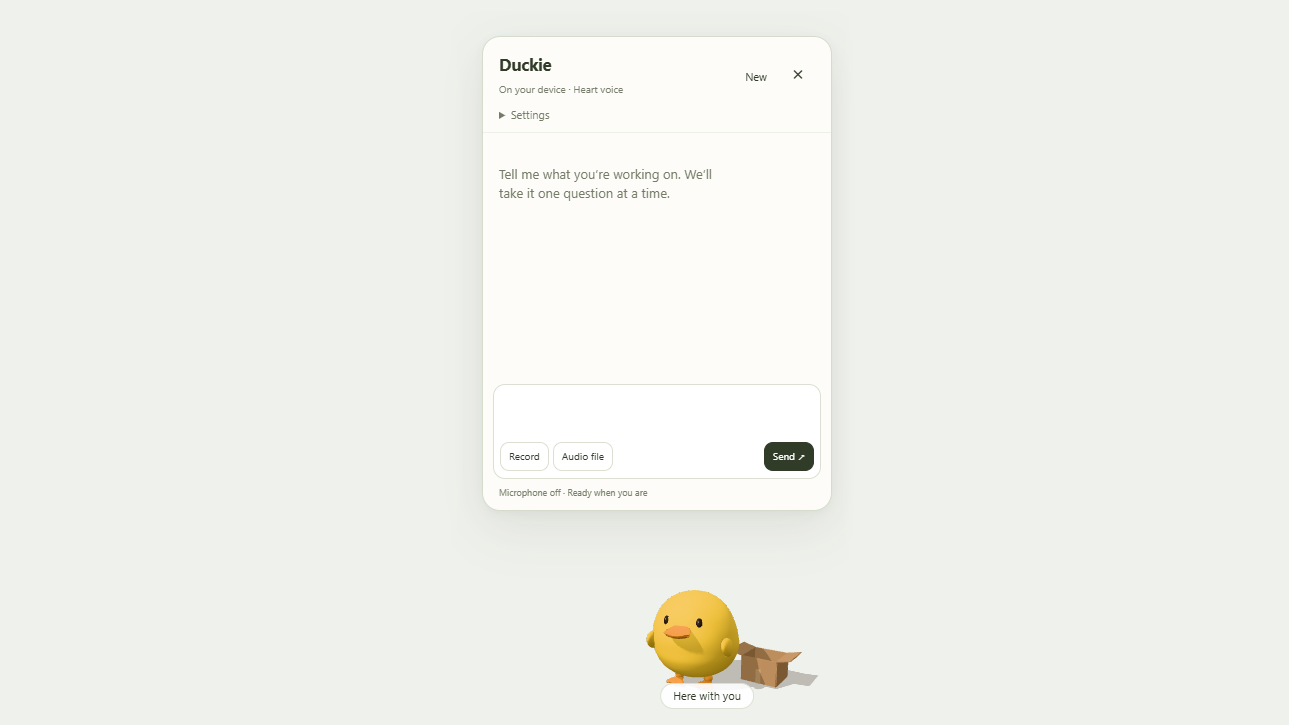
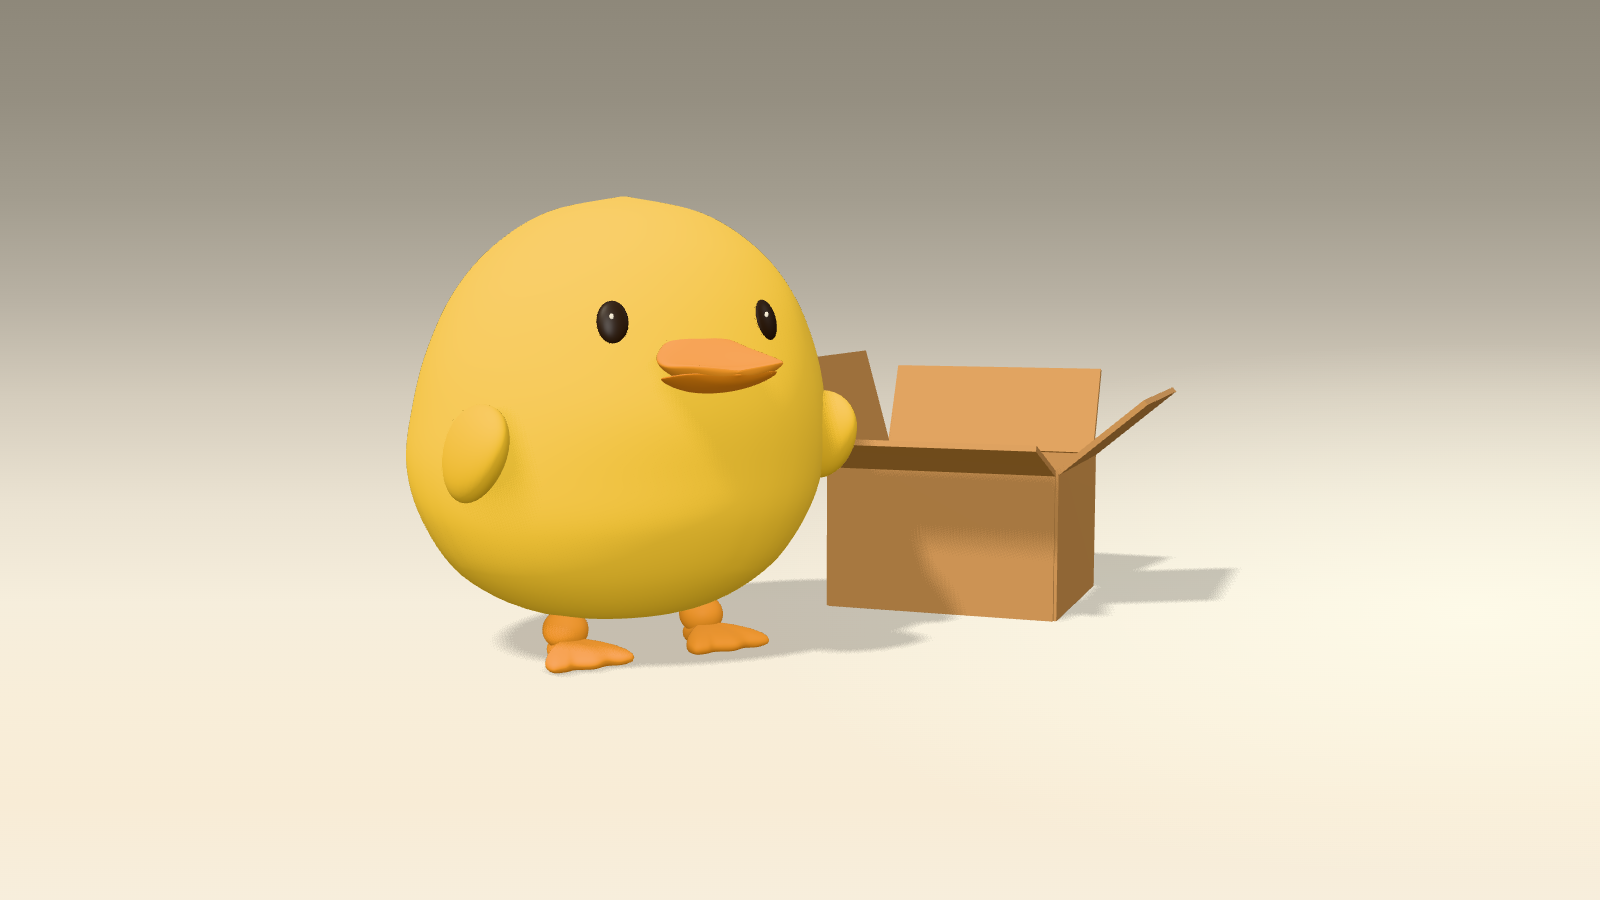
Publish Rubber Duckie project page and why post
- Flip both to draft: false.
- Rewrite both in my voice; note-6 adds where the rubber duck idea came
  from and why she isn't a coding agent or a screen watcher.
- New cover: the 3D Duckie model beside her open box, on the same
  warm-gray background as the Duckie cover.
- Add a RubberDuckieParts diagram (plain HTML/CSS, no JS) showing the
  gateway I wrote and the swappable ears, brain and voice it plugs into.
  Used on the project page and in note-6.
- Add a Rubber Duckie icon to the project logo registry, replacing the
  RD monogram in the blog tree and adding her to the home ribbon.

diff --git a/src/data/project-logos.ts b/src/data/project-logos.ts
@@ -7,6 +7,7 @@
 export const projectLogos: Record<string, string> = {
   contextguard: '/icons/ContextGuard.png',
   duckie: '/icons/Duckie.svg',
+  'rubber-duckie': '/icons/RubberDuckie.svg',
   'launch-start': '/icons/LaunchStart.svg',
   'beyond-the-score': '/icons/BeyondTheScore.svg',
 };
